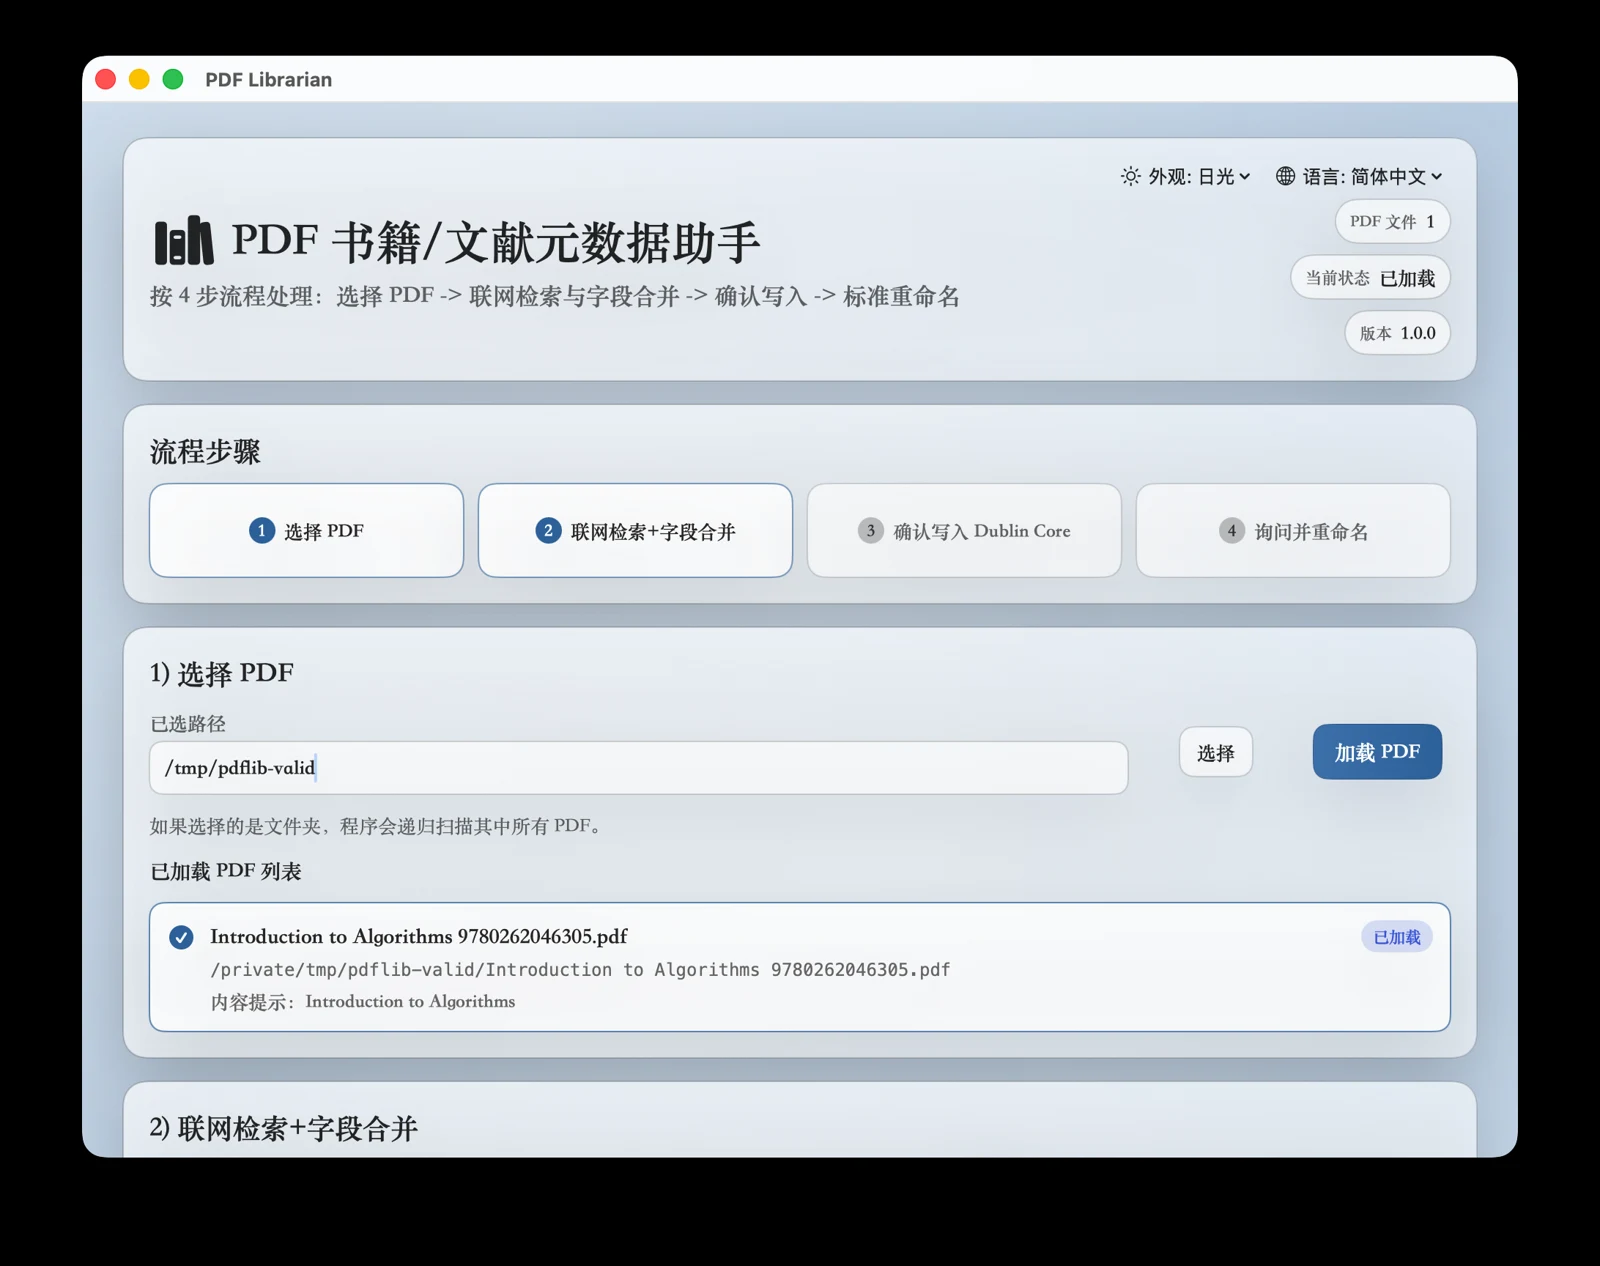
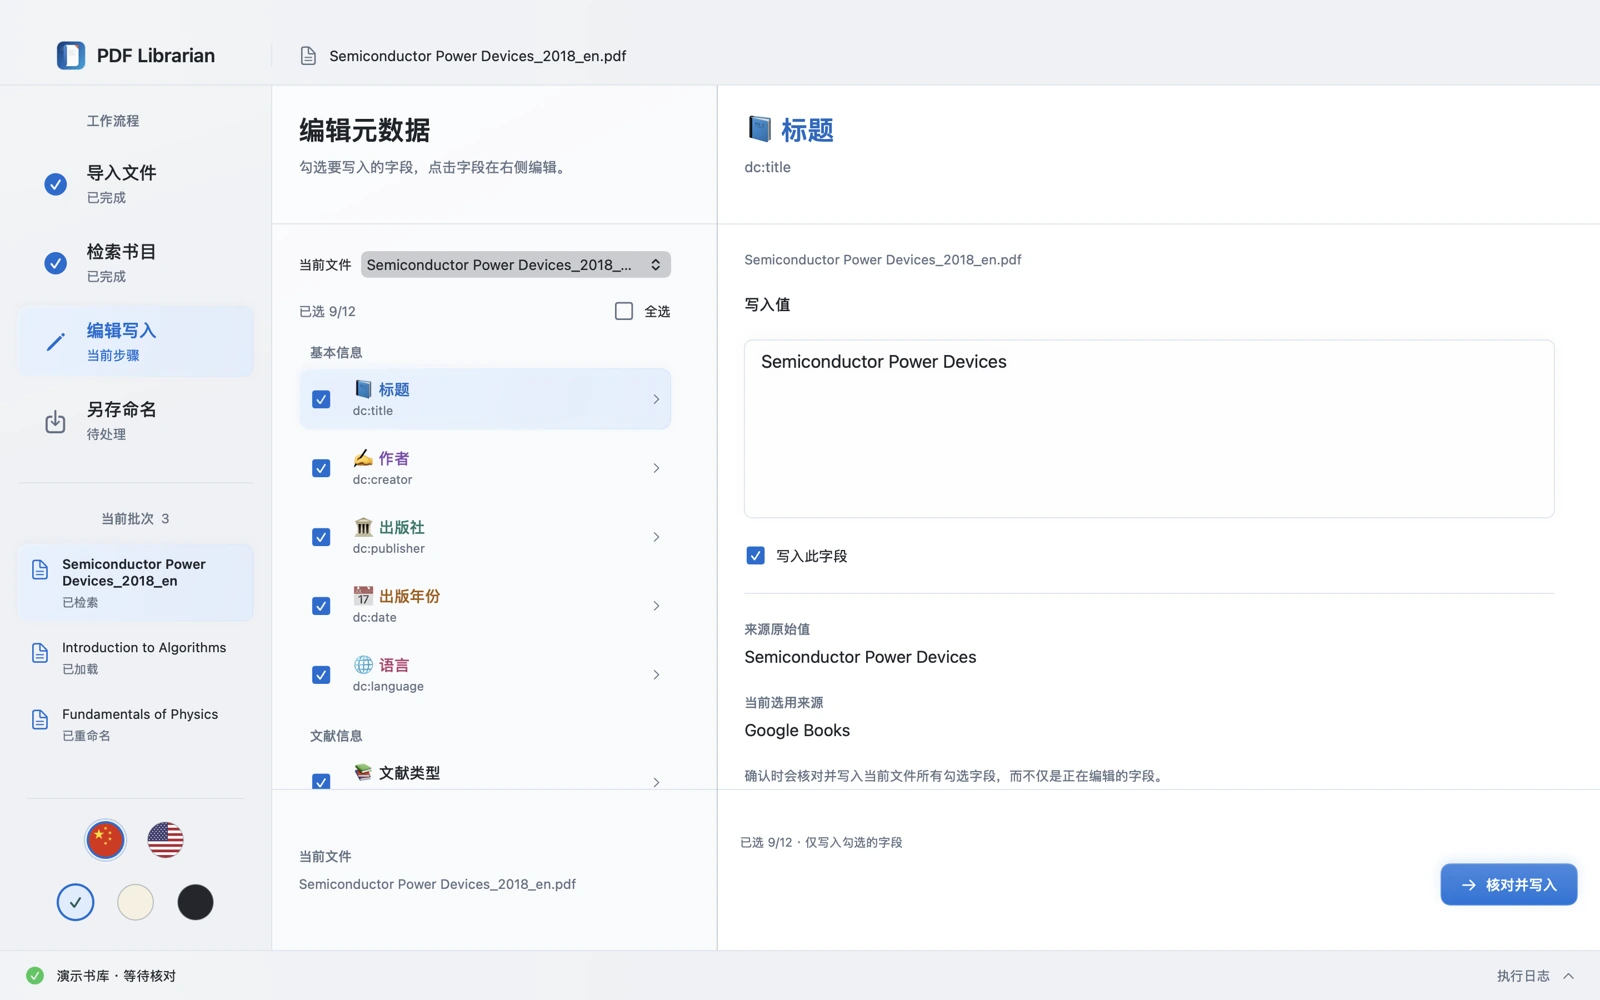
Update PDF Librarian product preview for 1.5.0

diff --git a/content/apps.ts b/content/apps.ts
@@ -27,12 +27,12 @@ export const apps = [
     id: 'pdflibrarian', name: 'PDF Librarian', chinese: '', traditional: '',
     category: 'A WELL-KEPT LIBRARY', platform: 'macOS', number: '03',
     tagline: '给 PDF，一份清楚的书目。', taglineHant: '給 PDF，一份清楚的書目。',
-    description: '检索、核对、写入元数据，规范书籍与论文的文件名。把数字书架，整理成喜欢的样子。',
-    descriptionHant: '檢索、核對、寫入中繼資料，規範書籍與論文的檔案名稱。把數位書架，整理成喜歡的樣子。',
+    description: '在三栏工作区中检索、对比并写入 PDF 元数据，以对应分色的文件名整理书籍与论文。提供三种主题与中英文界面。',
+    descriptionHant: '在三欄工作區中檢索、比較並寫入 PDF 中繼資料，以對應分色的檔案名稱整理書籍與論文。提供三種主題與中英文介面。',
     home: 'https://larryhu.com/PDFLibrarian/', store: 'https://apps.apple.com/us/app/pdf-librarian/id6760351540?mt=12',
     support: 'https://larryhu.com/PDFLibrarian/support/', privacy: 'https://larryhu.com/PDFLibrarian/privacy-policy/',
-    icon: '/images/pdf-icon.png', screen: '/images/pdf-overview.webp',
+    icon: '/images/pdf-icon.png', screen: '/images/pdf-overview.webp?v=1.5.0',
     screenAlt: 'PDF Librarian Mac 应用真实界面，展示 PDF 元数据检索与核对',
-    features: ['元数据检索', '书目核对', '规范命名'], featuresHant: ['中繼資料檢索', '書目核對', '規範命名'],
+    features: ['三栏工作区', '元数据对比', '分色命名'], featuresHant: ['三欄工作區', '中繼資料比較', '分色命名'],
   },
 ] as const;
